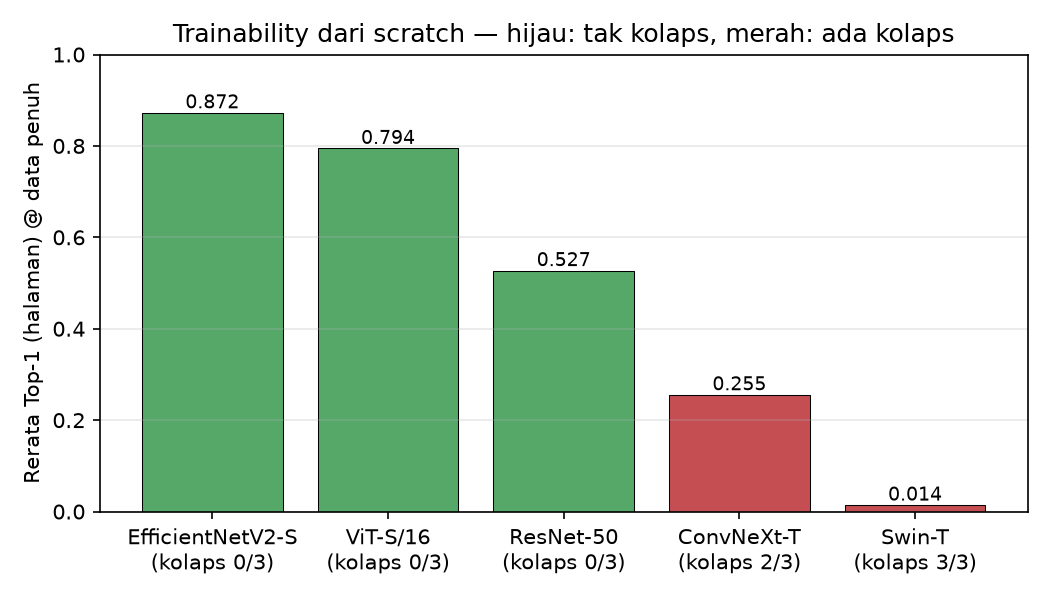
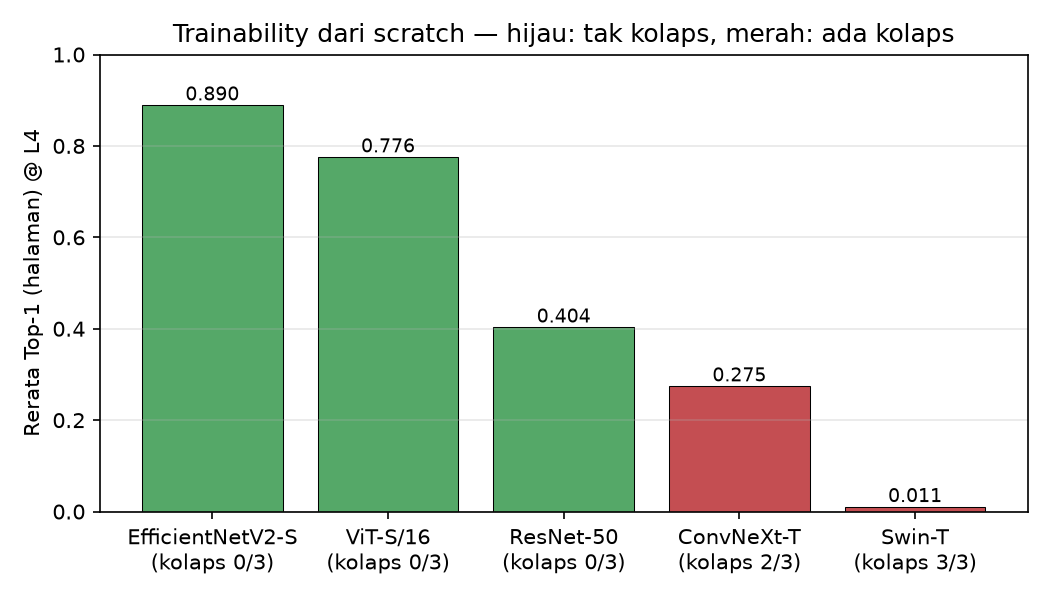
feat: move report

diff --git a/scripts/make_report.py b/scripts/make_report.py
@@ -7,7 +7,9 @@ from src.cvl.report import (
     scratch_trainability_markdown,
 )
 
-# `full` di-drop dari ablasi pretrained: ukuran datanya ≈ L4 (beda ~4%), redundan.
+# `full` sudah tidak ada di grid (lihat src/cvl/config.py). Filter ini dipertahankan
+# supaya results.csv lama — yang masih memuat baris Lfull — tetap terlaporkan sebagai
+# L1–L4 saja.
 DROP = ("full",)
 
 def main():
@@ -18,7 +20,7 @@ def main():
     # === Pretrained: hasil utama, ablasi ukuran data L1–L4 ===
     plot_accuracy_vs_n(df, "pretrained", fig / "acc_vs_n_pretrained.png", exclude_levels=DROP)
     parts += ["\n## Mode: pretrained (transfer learning)\n",
-              "\nHasil utama. Ablasi ukuran data latih L1–L4 (level `full` di-drop, ≈L4).\n",
+              "\nHasil utama. Ablasi ukuran data latih L1–L4.\n",
               "\n### Top-1 (halaman)\n", pivot_markdown(df, "top1_page", "pretrained", DROP),
               "\n\n### Top-5 (halaman)\n", pivot_markdown(df, "top5_page", "pretrained", DROP),
               "\n\n### Macro-F1 (halaman)\n", pivot_markdown(df, "macro_f1_page", "pretrained", DROP),
@@ -29,15 +31,15 @@ def main():
     # === Scratch: temuan sekunder — trainability dari nol di data penuh ===
     parts += ["\n## Mode: scratch (dari nol) — trainability\n",
               "\nDilatih dari inisialisasi acak dengan resep sama (LR warmup=3) untuk "
-              "SEMUA arsitektur. Dilaporkan hanya pada **data penuh** (kondisi terbaik "
-              "untuk scratch); data lebih sedikit hanya memperparah. Kolom **kolaps** = "
-              "jumlah seed dengan top-1 < 0.05 (prediksi ~1 kelas).\n",
-              "\n### Top-1 per seed @ data penuh\n",
-              scratch_trainability_markdown(df, level="full", metric="top1_page"),
-              "\n\n### Macro-F1 per seed @ data penuh\n",
-              scratch_trainability_markdown(df, level="full", metric="macro_f1_page"),
+              "SEMUA arsitektur. Dilaporkan hanya pada **L4** (data latih terbanyak, "
+              "kondisi terbaik untuk scratch); data lebih sedikit hanya memperparah. "
+              "Kolom **kolaps** = jumlah seed dengan top-1 < 0.05 (prediksi ~1 kelas).\n",
+              "\n### Top-1 per seed @ L4\n",
+              scratch_trainability_markdown(df, level=4, metric="top1_page"),
+              "\n\n### Macro-F1 per seed @ L4\n",
+              scratch_trainability_markdown(df, level=4, metric="macro_f1_page"),
               "\n\n> Swin-Tiny (kolaps 3/3) dan ConvNeXt-Tiny (kolaps 2/3) gagal konvergen "
-              "dari scratch bahkan dengan warmup + data penuh, sementara CNN (ResNet, "
+              "dari scratch bahkan dengan warmup + data L4, sementara CNN (ResNet, "
               "EfficientNet) dan ViT tidak pernah kolaps (0/3). Arsitektur hierarkis "
               "modern menuntut pretraining pada skala dataset ini.\n"]
 

diff --git a/scripts/make_figures.py b/scripts/make_figures.py
@@ -1,5 +1,5 @@
 """Grafik tambahan untuk skripsi: bar chart leaderboard (pretrained) dan
-bar chart trainability scratch @ data penuh. Output ke results/figures/."""
+bar chart trainability scratch @ L4. Output ke results/figures/."""
 import sys
 from pathlib import Path
 import matplotlib
@@ -31,7 +31,7 @@ def leaderboard_pretrained(df, out_png):
 
 
 def scratch_trainability_bar(df, out_png, collapse_thresh=0.05):
-    s = df[(df["mode"] == "scratch") & (df["level"].astype(str) == "full")]
+    s = df[(df["mode"] == "scratch") & (df["level"].astype(str) == "4")]
     order = ["efficientnetv2_s", "vit_small", "resnet50", "convnext_tiny", "swin_tiny"]
     means, labels, colors = [], [], []
     for a in order:
@@ -47,7 +47,7 @@ def scratch_trainability_bar(df, out_png, collapse_thresh=0.05):
         plt.text(b.get_x() + b.get_width() / 2, m + 0.01, f"{m:.3f}",
                  ha="center", fontsize=9)
     plt.ylim(0, 1.0)
-    plt.ylabel("Rerata Top-1 (halaman) @ data penuh")
+    plt.ylabel("Rerata Top-1 (halaman) @ L4")
     plt.title("Trainability dari scratch — hijau: tak kolaps, merah: ada kolaps")
     plt.grid(axis="y", alpha=0.3)
     plt.tight_layout(); plt.savefig(out_png, dpi=150); plt.close()

diff --git a/src/cvl/report.py b/src/cvl/report.py
@@ -34,8 +34,9 @@ def pivot_markdown(df, metric: str, mode: str, exclude_levels=()) -> str:
         lines.append(f"| {a} | " + " | ".join(cells) + " |")
     return "\n".join(lines)
 
-def scratch_trainability_markdown(df, level="full", metric="top1_page", collapse_thresh=0.05) -> str:
-    """Tabel per-seed di satu level (default data penuh) untuk mode scratch.
+def scratch_trainability_markdown(df, level=4, metric="top1_page", collapse_thresh=0.05) -> str:
+    """Tabel per-seed di satu level (default L4 = data latih terbanyak) untuk
+    mode scratch.
     Memisahkan stabilitas (jumlah seed yang KOLAPS, metric < collapse_thresh =
     prediksi ~1 kelas) dari akurasi (rerata)."""
     s = df[(df["mode"] == "scratch") & (df["level"].astype(str) == str(level))]

diff --git a/src/cvl/config.py b/src/cvl/config.py
@@ -15,7 +15,10 @@ ALL_ARCHITECTURES = {
     "vit_small": "vit_small_patch16_224",
     "swin_tiny": "swin_tiny_patch4_window7_224",
 }
-ALL_ABLATION_LEVELS = [1, 2, 3, 4, None]  # None = full
+# Level `full` (None) di-drop dari grid: ukuran datanya ≈ L4 (9.852 vs 9.455
+# baris, beda ~4%) dan akurasinya setara, jadi redundan. Parser `.env` masih
+# menerima token "full" bila sewaktu-waktu perlu dijalankan lagi.
+ALL_ABLATION_LEVELS = [1, 2, 3, 4]
 ALL_SEEDS = [0, 1, 2]
 ALL_MODES = ["pretrained", "scratch"]
 

diff --git a/dokumentasi/08-hasil-eksperimen.md b/dokumentasi/08-hasil-eksperimen.md
@@ -4,7 +4,7 @@
 ## Mode: pretrained (transfer learning)
 
 
-Hasil utama. Ablasi ukuran data latih L1–L4 (level `full` di-drop, ≈L4).
+Hasil utama. Ablasi ukuran data latih L1–L4.
 
 
 ### Top-1 (halaman)
@@ -68,29 +68,29 @@ Hasil utama. Ablasi ukuran data latih L1–L4 (level `full` di-drop, ≈L4).
 ## Mode: scratch (dari nol) — trainability
 
 
-Dilatih dari inisialisasi acak dengan resep sama (LR warmup=3) untuk SEMUA arsitektur. Dilaporkan hanya pada **data penuh** (kondisi terbaik untuk scratch); data lebih sedikit hanya memperparah. Kolom **kolaps** = jumlah seed dengan top-1 < 0.05 (prediksi ~1 kelas).
+Dilatih dari inisialisasi acak dengan resep sama (LR warmup=3) untuk SEMUA arsitektur. Dilaporkan hanya pada **L4** (data latih terbanyak, kondisi terbaik untuk scratch); data lebih sedikit hanya memperparah. Kolom **kolaps** = jumlah seed dengan top-1 < 0.05 (prediksi ~1 kelas).
 
 
-### Top-1 per seed @ data penuh
-
-| arch | seed 0 | seed 1 | seed 2 | rerata | kolaps |
-|---|---|---|---|---|---|
-| convnext_tiny | 0.003 | 0.003 | 0.760 | 0.255 | 2/3 |
-| efficientnetv2_s | 0.818 | 0.890 | 0.909 | 0.872 | 0/3 |
-| resnet50 | 0.591 | 0.256 | 0.734 | 0.527 | 0/3 |
-| swin_tiny | 0.013 | 0.019 | 0.010 | 0.014 | 3/3 |
-| vit_small | 0.821 | 0.727 | 0.834 | 0.794 | 0/3 |
-
-
-### Macro-F1 per seed @ data penuh
+### Top-1 per seed @ L4
 
 | arch | seed 0 | seed 1 | seed 2 | rerata | kolaps |
 |---|---|---|---|---|---|
-| convnext_tiny | 0.000 | 0.000 | 0.703 | 0.234 | 2/3 |
-| efficientnetv2_s | 0.774 | 0.857 | 0.882 | 0.838 | 0/3 |
-| resnet50 | 0.502 | 0.181 | 0.667 | 0.450 | 0/3 |
-| swin_tiny | 0.004 | 0.001 | 0.000 | 0.002 | 3/3 |
-| vit_small | 0.772 | 0.664 | 0.793 | 0.743 | 0/3 |
+| convnext_tiny | 0.818 | 0.003 | 0.003 | 0.275 | 2/3 |
+| efficientnetv2_s | 0.912 | 0.880 | 0.877 | 0.890 | 0/3 |
+| resnet50 | 0.487 | 0.179 | 0.545 | 0.404 | 0/3 |
+| swin_tiny | 0.019 | 0.006 | 0.006 | 0.011 | 3/3 |
+| vit_small | 0.779 | 0.731 | 0.818 | 0.776 | 0/3 |
 
 
-> Swin-Tiny (kolaps 3/3) dan ConvNeXt-Tiny (kolaps 2/3) gagal konvergen dari scratch bahkan dengan warmup + data penuh, sementara CNN (ResNet, EfficientNet) dan ViT tidak pernah kolaps (0/3). Arsitektur hierarkis modern menuntut pretraining pada skala dataset ini.
+### Macro-F1 per seed @ L4
+
+| arch | seed 0 | seed 1 | seed 2 | rerata | kolaps |
+|---|---|---|---|---|---|
+| convnext_tiny | 0.771 | 0.000 | 0.000 | 0.257 | 2/3 |
+| efficientnetv2_s | 0.888 | 0.845 | 0.842 | 0.858 | 0/3 |
+| resnet50 | 0.393 | 0.115 | 0.465 | 0.324 | 0/3 |
+| swin_tiny | 0.001 | 0.001 | 0.000 | 0.001 | 3/3 |
+| vit_small | 0.725 | 0.664 | 0.766 | 0.718 | 0/3 |
+
+
+> Swin-Tiny (kolaps 3/3) dan ConvNeXt-Tiny (kolaps 2/3) gagal konvergen dari scratch bahkan dengan warmup + data L4, sementara CNN (ResNet, EfficientNet) dan ViT tidak pernah kolaps (0/3). Arsitektur hierarkis modern menuntut pretraining pada skala dataset ini.

diff --git a/README.md b/README.md
@@ -70,12 +70,12 @@ python scripts/prep_manifests.py
 python scripts/run_all.py
 ```
 
-- Grid penuh: **5 arsitektur × 5 level × 2 mode × 3 seed = 150 run**.
+- Grid penuh: **5 arsitektur × 4 level × 2 mode × 3 seed = 120 run**. (Level `full` di-drop — ukurannya ≈ L4, lihat `src/cvl/config.py`.)
 - **Resume-able**: aman diulang kalau sesi RunPod putus — run yang sudah ada di `results/results.csv` dilewati. Cukup jalankan ulang perintah yang sama.
 - Output: `results/results.csv` (1 baris/run: Top-1/Top-5/macro-F1 halaman, mAP & Top-1 retrieval, n_params, throughput, waktu latih), checkpoint terbaik di `results/checkpoints/<run_id>/best.pt`.
 - Pantau progres: tiap run mencetak `done <run_id>: top1=... map=...`.
 
-**Menghemat jam GPU / smoke test** (opsional) — atur lewat file `.env` di root repo, **tanpa** ngedit kode (lihat [Konfigurasi lewat `.env`](#konfigurasi-lewat-env)). Mis. `CVL_MODES=pretrained` melewati semua from-scratch (150 → 75 run).
+**Menghemat jam GPU / smoke test** (opsional) — atur lewat file `.env` di root repo, **tanpa** ngedit kode (lihat [Konfigurasi lewat `.env`](#konfigurasi-lewat-env)). Mis. `CVL_MODES=pretrained` melewati semua from-scratch (120 → 60 run).
 
 Run **from-scratch + data penuh** yang paling lama; pretrained + N kecil sangat cepat.
 
@@ -114,14 +114,14 @@ cp .env.example .env
 | Variabel | Arti | Contoh | Penuh (default bila kosong) |
 |---|---|---|---|
 | `CVL_ARCHS` | subset arsitektur | `resnet50` | `resnet50,convnext_tiny,efficientnetv2_s,vit_small,swin_tiny` |
-| `CVL_LEVELS` | level ablasi (`full`=semua halaman) | `1,full` | `1,2,3,4,full` |
+| `CVL_LEVELS` | level ablasi (halaman latih/penulis) | `1,4` | `1,2,3,4` |
 | `CVL_SEEDS` | seed | `0` | `0,1,2` |
 | `CVL_MODES` | mode | `pretrained` | `pretrained,scratch` |
 | `CVL_MAX_WRITERS` | batasi jumlah penulis | `10` | semua penulis |
 | `CVL_PRETRAINED_EPOCHS` / `CVL_SCRATCH_EPOCHS` | override epoch | `2` | dari `default.yaml` |
 | `CVL_BATCH_SIZE` | override batch size | `32` | dari `default.yaml` |
 
-Aturannya: **baris yang diisi = subset; dikosongkan/dihapus = pakai nilai penuh.** Hapus `.env` (atau kosongkan semua) → otomatis kembali ke grid penuh 150 run.
+Aturannya: **baris yang diisi = subset; dikosongkan/dihapus = pakai nilai penuh.** Hapus `.env` (atau kosongkan semua) → otomatis kembali ke grid penuh 120 run.
 
 > `CVL_MAX_WRITERS` memengaruhi manifest, jadi ubah nilainya lalu **jalankan ulang `prep_manifests.py`** sebelum `run_all.py`.
 >
